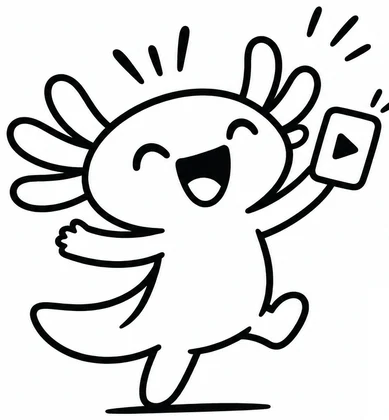
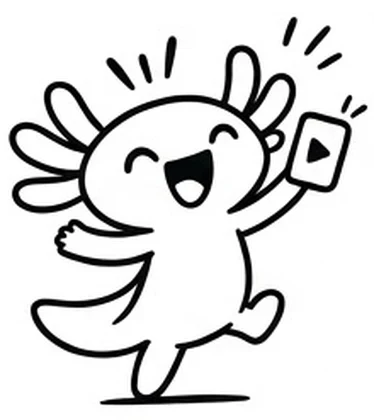
Poses d'ECO i NEXO a les tires còmiques
- 5 poses de cada personatge en dibuix de línia, i cares per als
  diàlegs.
- Cada vinyeta mostra el personatge amb la pose del gest del seu
  bocadillo (contento, sorprès, avergonyit, confós, parlant; escèptica,
  explicant, tapant-se la cara, satisfeta, enfadada).
- NEXO sense l'interrogant; la pàgina d'ECO y NEXO mostra les poses.

Claude-Session: https://claude.ai/code/session_01PfdX23Ur7WBLJU9EvgwBMX

Changed region(s): [[0.0, 0.0, 1.0, 0.9905]]

diff --git a/lib/universo.ts b/lib/universo.ts
@@ -19,9 +19,20 @@ export type Character = {
   image?: string; faces?: Record<string, string>;
 };
 
-// Expressions disponibles: quan arribin les làmines d'expressions, s'afegeixen aquí (p. ex. alegria: '/media/personajes/eco-alegria.webp').
-// Mentrestant, qualsevol gest mostra el retrat neutre.
+// Poses en dibuix de línia (public/media/personajes/<id>-<pose>.webp) i cares retallades (cara-<id>-<pose>.webp).
+// Els guions fan servir gestos (alegria, sorpresa, confusion…): GESTOS els tradueix a la pose dibuixada que hi encaixa.
 const P = '/media/personajes/';
+export const POSES: Record<string, string[]> = {
+  eco: ['contento', 'sorprendido', 'avergonzado', 'confuso', 'hablando'],
+  nexo: ['esceptica', 'explicando', 'tapandose', 'satisfecha', 'enfadada']
+};
+const GESTOS: Record<string, Record<string, string>> = {
+  eco: { neutral: 'contento', alegria: 'contento', sorpresa: 'sorprendido', enfado: 'sorprendido', confusion: 'confuso', verguenza: 'avergonzado', hablando: 'hablando', senalando: 'hablando' },
+  nexo: { neutral: 'esceptica', esceptico: 'esceptica', pensativo: 'explicando', sorpresa: 'explicando', paciencia: 'tapandose', guino: 'satisfecha', alegria: 'satisfecha', enfado: 'enfadada' }
+};
+// Pose del personatge per a un gest (o la pose base si el gest no existeix)
+export const poseFor = (id: string, gesto?: string) => (GESTOS[id] && (GESTOS[id][gesto || 'neutral'] || GESTOS[id].neutral)) || '';
+const faces = (id: string) => Object.fromEntries(Object.keys(GESTOS[id]).map((g) => [g, `${P}cara-${id}-${GESTOS[id][g]}.webp`]));
 
 export const CHARACTERS: Character[] = [
   {
@@ -31,7 +42,7 @@ export const CHARACTERS: Character[] = [
     represents: 'A quienes quieren emprender, hacer marketing o ganar dinero en internet sin formarse antes. Todos hemos hecho alguna vez algo parecido.',
     traits: ['Entusiasta', 'Impulsivo', 'Optimista', 'Presumido', 'Simpático'],
     phrases: ['«¡Esto con inteligencia artificial lo petamos!»', '«¡Lo ha dicho un gurú en un vídeo de 15 segundos!»', '«Esto es facilísimo, ¡lo hago yo!»', '«¡Pero si tengo 10.000 seguidores!»', '«Tranquila, ¡mañana me regenero!»'],
-    image: P + 'eco-principal.webp', faces: { neutral: P + 'eco-neutral.webp' }
+    image: P + 'eco-principal.webp', faces: faces('eco')
   },
   {
     id: 'nexo', name: 'NEXO', title: 'La Profe NEXO', role: 'La pulpo que lo conecta todo', main: true, color: '#0c8a85',
@@ -40,7 +51,7 @@ export const CHARACTERS: Character[] = [
     represents: 'El pensamiento crítico, la formación y las decisiones basadas en datos.',
     traits: ['Inteligente', 'Paciente', 'Irónica', 'Didáctica', 'Con sentido del humor'],
     phrases: ['«Antes de hacerlo, ¿has pensado si es rentable?»', '«ECO, una cosa es tener seguidores y otra, vender».', '«Los datos no mienten. Tu interpretación, quizá sí».', '«Primero aprende. Después invierte».', '«Tengo ocho brazos y ninguno da abasto contigo».'],
-    image: P + 'nexo-principal.webp', faces: { neutral: P + 'nexo-neutral.webp' }
+    image: P + 'nexo-principal.webp', faces: faces('nexo')
   },
   { id: 'presu', name: 'DON PRESU', role: 'El financiero', main: false, color: '#c8932a',
     bio: 'Solo piensa en costes, márgenes y rentabilidad. Aparece cada vez que ECO quiere gastar dinero.', phrases: ['«Muy bonito. ¿Y el ROI dónde está?»'] },

diff --git a/components/Tira.tsx b/components/Tira.tsx
@@ -1,15 +1,10 @@
 // Tira còmica en blanc i negre: tres vinyetes amb ECO i NEXO que introdueixen la lliçó.
-// Els personatges surten de public/media/personajes/<id>-tira.webp (dibuix en blanc i negre);
-// si encara no existeix, es fa servir la il·lustració a color passada a escala de grisos.
-import fs from 'node:fs';
-import path from 'node:path';
+// Cada personatge surt amb la pose que correspon al gest del seu bocadillo (public/media/personajes/<id>-<pose>.webp).
 import type { Bocadillo } from '@/lib/estudios';
+import { poseFor } from '@/lib/universo';
 
 const NAMES: Record<string, string> = { eco: 'ECO', nexo: 'NEXO' };
-function img(id: string) {
-  const bw = `/media/personajes/${id}-tira.webp`;
-  return fs.existsSync(path.join(process.cwd(), 'public', bw)) ? { src: bw, bw: true } : { src: `/media/personajes/${id}-principal.webp`, bw: false };
-}
+const img = (id: string, gesto?: string) => { const p = poseFor(id, gesto); return p ? `/media/personajes/${id}-${p}.webp` : `/media/personajes/${id}-tira.webp`; };
 
 export function Tira({ panels, titulo }: { panels: Bocadillo[][]; titulo: string }) {
   if (!panels?.length) return null;
@@ -17,7 +12,8 @@ export function Tira({ panels, titulo }: { panels: Bocadillo[][]; titulo: string
     <figure className="font-comic">
       <div className="grid gap-3 sm:grid-cols-3">
         {panels.map((bubbles, i) => {
-          const cast = [...new Set(bubbles.map((b) => b.quien))];
+          // cada personatge, amb el gest del seu últim bocadillo de la vinyeta
+          const cast = [...new Set(bubbles.map((b) => b.quien))].map((q) => ({ q, gesto: [...bubbles].reverse().find((b) => b.quien === q)?.gesto }));
           return (
             <div key={i} className="relative flex min-h-52 flex-col sm:min-h-72 overflow-hidden rounded-sm border-[3px] border-black bg-white p-3">
               <span className="absolute right-2 top-1 text-xs font-bold text-black/40">{i + 1}</span>
@@ -29,8 +25,8 @@ export function Tira({ panels, titulo }: { panels: Bocadillo[][]; titulo: string
                   </p>
                 ))}
               </div>
-              <div className={`mt-auto flex items-end pt-3 ${cast.length > 1 ? 'justify-between' : cast[0] === 'eco' ? 'justify-start' : 'justify-end'}`}>
-                {cast.map((c) => { const im = img(c); return <img key={c} src={im.src} alt={NAMES[c]} loading="lazy" className={`h-32 w-auto object-contain ${im.bw ? '' : 'grayscale contrast-125'}`} />; })}
+              <div className={`mt-auto flex items-end pt-3 ${cast.length > 1 ? 'justify-between' : cast[0].q === 'eco' ? 'justify-start' : 'justify-end'}`}>
+                {cast.map((c) => <img key={c.q} src={img(c.q, c.gesto)} alt={NAMES[c.q]} loading="lazy" className="h-32 w-auto object-contain" />)}
               </div>
             </div>
           );

diff --git a/app/eco-y-nexo/page.tsx b/app/eco-y-nexo/page.tsx
@@ -6,7 +6,7 @@ import { Dialogue } from '@/components/Dialogue';
 import { VideoCard } from '@/components/VideoCard';
 import { ArticleCard } from '@/components/ArticleCard';
 import { Newsletter } from '@/components/Newsletter';
-import { CHANNEL, CHARACTERS, SERIES, UNIVERSE } from '@/lib/universo';
+import { CHANNEL, CHARACTERS, POSES, SERIES, UNIVERSE } from '@/lib/universo';
 import { videos } from '@/lib/videos';
 import { published } from '@/lib/content';
 import { TOOLS } from '@/lib/tools';
@@ -65,7 +65,7 @@ export default function Universe() {
                 {c.gag && <p className="mt-3 text-sm"><b className="text-navy">Su sello:</b> {c.gag}</p>}
                 {c.represents && <p className="mt-3 text-sm"><b className="text-navy">Qué representa:</b> {c.represents}</p>}
                 <ul className="mt-3 space-y-1 text-sm font-semibold italic text-navy">{c.phrases.map((p) => <li key={p}>{p}</li>)}</ul>
-                {c.faces && <div className="mt-4 flex flex-wrap gap-1.5">{Object.keys(c.faces).filter((k) => k !== 'neutral').map((k) => <Avatar key={k} id={c.id} gesto={k} className="h-11 w-11" />)}</div>}
+                {POSES[c.id] && <div className="mt-4 flex flex-wrap gap-2">{POSES[c.id].map((p) => <img key={p} src={`/media/personajes/${c.id}-${p}.webp`} alt={`${c.name}: ${p}`} title={p} loading="lazy" className="h-16 w-auto rounded-lg border border-line bg-white p-1" />)}</div>}
               </div>
             </article>
           ))}

diff --git a/README.md b/README.md
@@ -13,7 +13,7 @@ La parte principal de ECONEXO es **educativa**: contenidos de todos los ciclos d
 - **Temario oficial** de cada módulo: `data/<módulo>.json` (bloques, puntos y cómo se trabaja hoy cada punto).
 - **Rutas**: `/estudiar/` (buscador por grado, ciclo y módulo) · `/estudiar/<ciclo>/` · `/estudiar/<ciclo>/<módulo>/` (lecciones, progreso, temario, simulador, herramientas, actualidad y lecturas del módulo) · `/estudiar/<ciclo>/<módulo>/<lección>/` · `/simuladores/`.
 - **Progreso**: se guarda en el navegador del alumno (`localStorage`); una lección se supera con 3 de 5.
-- **Tiras cómicas**: `components/Tira.tsx` dibuja las viñetas en blanco y negro con los dibujos de línea de `public/media/personajes/eco-tira.webp` y `nexo-tira.webp` (el original con los dos personajes es `eco-y-nexo.webp`). Por ahora hay una pose por personaje; si se añaden más poses o expresiones, cada viñeta puede usar la suya.
+- **Tiras cómicas**: `components/Tira.tsx` dibuja las viñetas en blanco y negro con los dibujos de línea de `public/media/personajes/eco-tira.webp` y `nexo-tira.webp` (el original con los dos personajes es `eco-y-nexo.webp`). Cada personaje tiene 5 poses (ECO: contento, sorprendido, avergonzado, confuso, hablando; NEXO: escéptica, explicando, tapándose la cara, satisfecha, enfadada) y cada viñeta usa la del gesto de su bocadillo (`poseFor` en `lib/universo.ts`). Las caras para los diálogos son `cara-<id>-<pose>.webp`.
 - **Actualidad y lecturas**: cualquier artículo con `modulos: [comercio-electronico]` y `codigos: [...]` aparece en la página del módulo y en las lecciones de esos puntos.
 
 ### Primer módulo: Comercio electrónico (Actividades Comerciales, grado medio)
